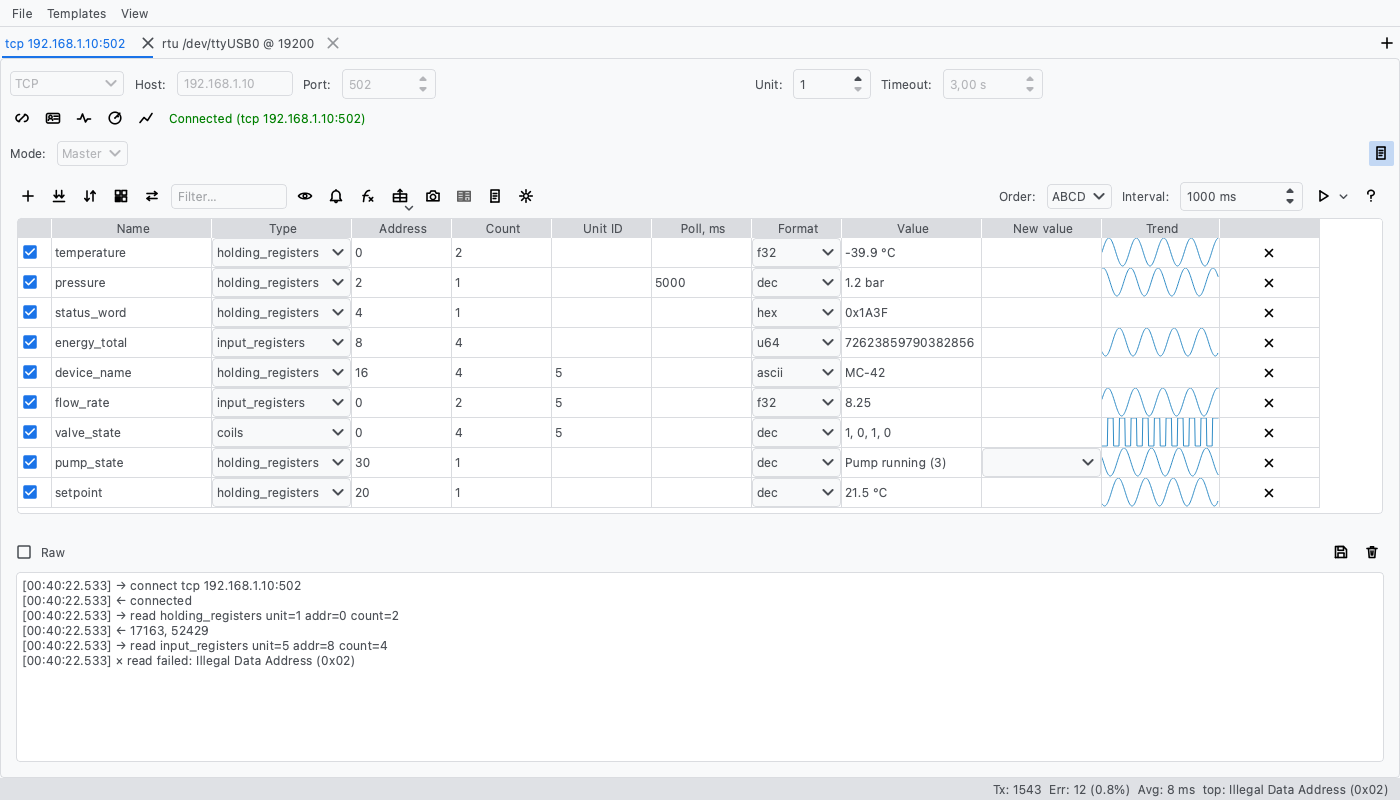
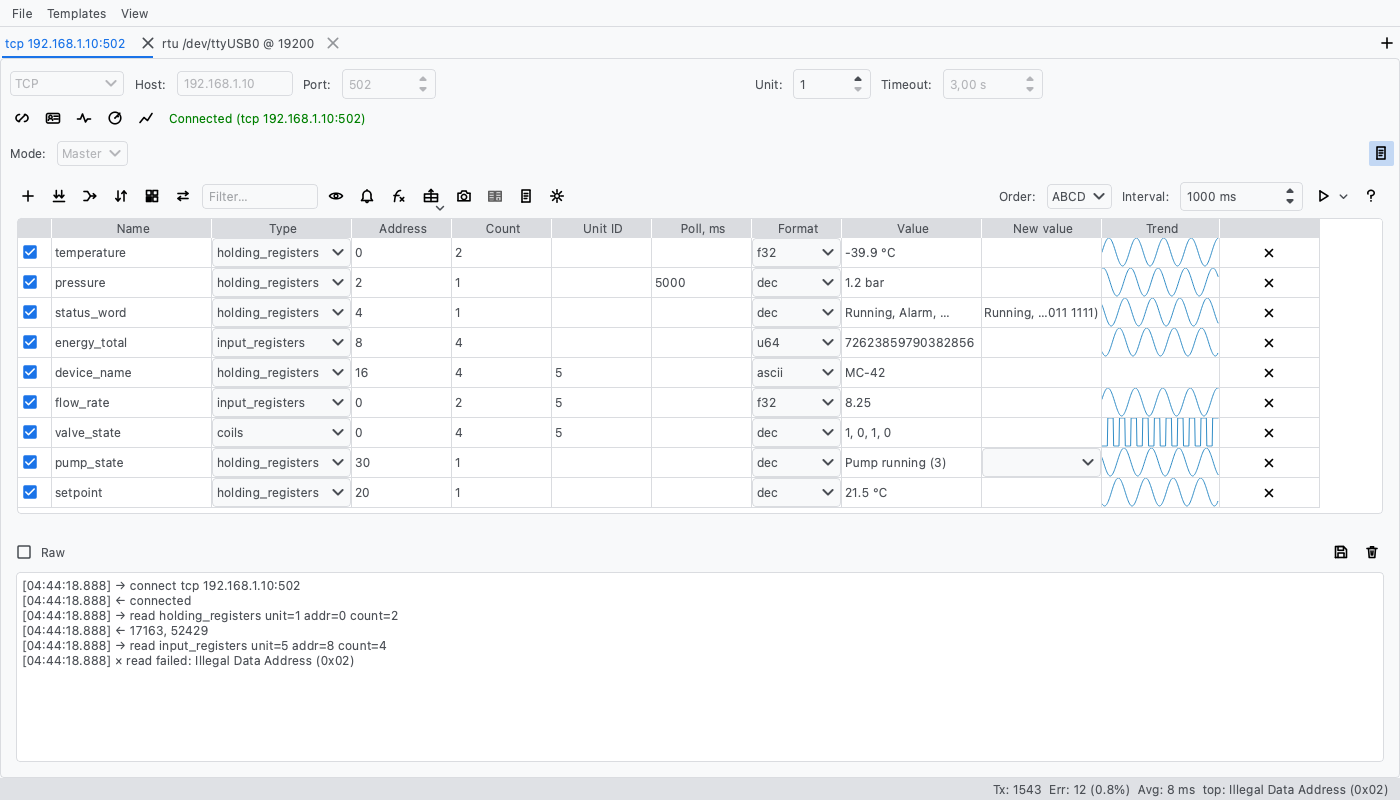
Update bitmask docs and screenshots for the binary display

diff --git a/README.md b/README.md
@@ -82,8 +82,9 @@ all Modbus logic runs in a separate thread (QThread), so the GUI never freezes.
   "Running (1)" and the write field becomes a dropdown that writes the chosen
   value in one click (works in both master and slave modes). A "Bitmask"
   checkbox switches the mode: the names label bits 0..15 of a u16 register,
-  the value lists the set bits ("Running, Alarm (0x00A5)") and the write
-  field becomes a button opening a 16-bit checkbox dialog.
+  the value lists the set bits with a grouped binary word ("Running, Alarm
+  (0000 0000 1010 0101)") and the write field becomes a button opening a
+  16-bit checkbox dialog.
 - Snapshot diff ("Snapshot"/"Diff…" buttons): remember the current raw values
   of all rows, then compare them with later reads in a separate window —
   changed rows are highlighted, an "Only differences" filter hides the rest,
